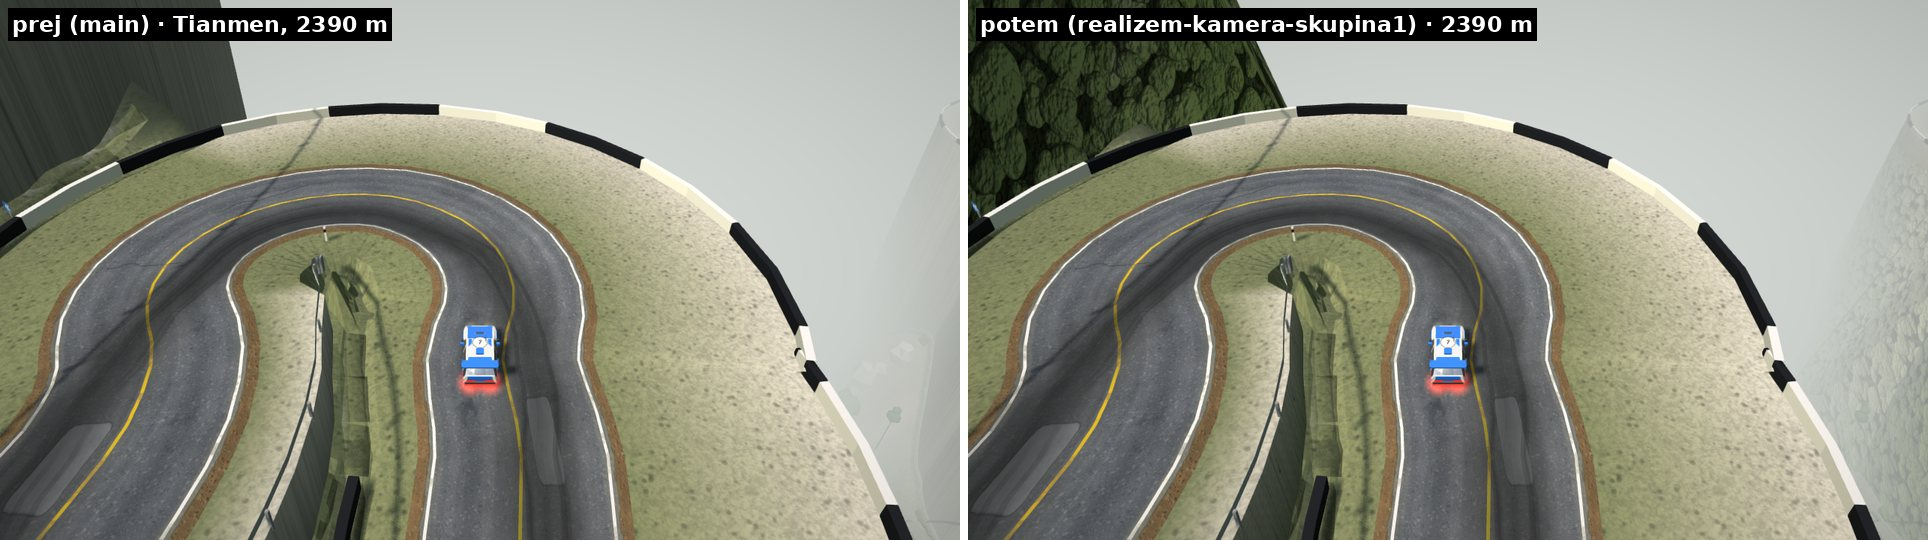
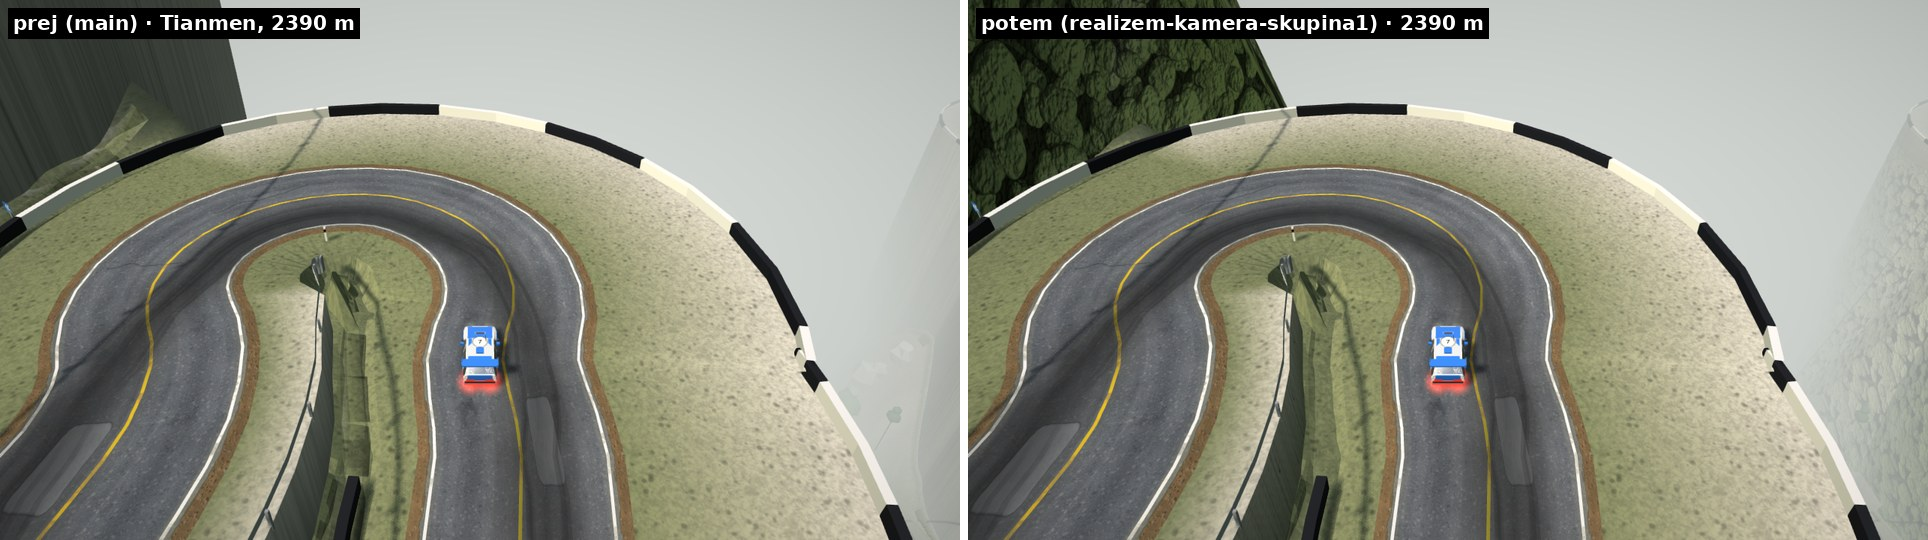
Realizem kamera, skupina 1: Tianmen, noga opornega zidu naravnost v teren (~2390 m)
Stolpec temnih stopničastih ploskev ob vznožju 4–8 m zidu zgornjega kraka so
bili trakovi mehkega senčenja stika (aoWorld): noga zidu je bila ravno na meji
njegovega dosega (0,2–0,5 m pod terenom), zato je trak dobil en vzorec, drugi
ne, vsak nagnjen po terenu, ki pada proti spodnjemu kraku. Noga zidu, ki gre
naravnost v teren, je zdaj vsaj 0,6 m pod njim: lice in teren se srečata v eni
črti. Odstranjen je tudi predpasnik starega lica na tleh ob vznožju (do 1,9 m),
ki je ležal 3 cm nad terenom. aoWorld, ograje in fizika so nespremenjeni.

Tianmen (NIZKA): 183 klicev risanja (največ 214), 495 tisoč oglišč (največ
631 tisoč; prej 501 in 638). Zlato sveta samo za Tianmen, perf.json kot na main.
Slike prej/potem: docs/realizem/kamera1-tianmen-2390m.jpg in -2390m-noga.jpg.

Claude-Session: https://claude.ai/code/session_01WbgGzsyw5vt7oAhCwxvDFq

diff --git a/js/world-realizem1.js b/js/world-realizem1.js
@@ -297,7 +297,10 @@
     const face = new Set(); let segs = 0;
     for (const side of [-1, 1]) { const W = isWall[side > 0 ? 1 : 0];
       for (let i = 0; i < N - 1; i++) { if (!W[i] && !W[i + 1]) continue; segs++;
-        for (const j of [i, i + 1]) for (const [o, y] of rows(j, side)) face.add(key(Pt(j, side * o, y))); } }
+        for (const j of [i, i + 1]) { for (const [o, y] of rows(j, side)) face.add(key(Pt(j, side * o, y)));
+          // (and the old face's apron on the ground at its foot, to 1.9 m out: under the new wall and slope it is buried, but before a wall straight
+          // down beside a leg below it lay 3 cm over the ground's own heights, in patches over and under the ground's coarser mesh)
+          if (W[j]) { const bar = barOf(j, side); for (const d of [1.15, 1.9]) face.add(key(Pt(j, side * (bar + d), gAt(j, side, bar + d) + 0.03))); } } } }
     if (!segs) return;
     // take the old faces out of the road's meshes: the triangles with all three corners on those rows
     let removed = 0, gMat = null;
@@ -390,7 +393,10 @@
     // the profiles (offset from the road's centre, height above it), 8 points: 0 the wall's top, 1 its foot, 2-4 the slope, 5 where it ends, 6-7 on:
     // under the ground; or the cut face's foot (land 1), and over a pit the level ground on to the leg below
     const prof = (i, side) => { const r = wall[side > 0 ? 1 : 0][i], bar = barOf(i, side), p = [[bar + 0.3, -0.04], [r.oW, r.yW]];
-      if (r.full) { for (let k = 0; k < 5; k++) p.push([r.oW, r.yW]); p.push([r.oW + 0.4, gAt(i, side, r.oW + 0.4) - 0.4]); return p; }
+      // (a wall straight down into the ground: its foot at least 0.6 m under it, so the face meets the ground in one clean line; nearer the surface
+      // the soft contact shading (aoWorld: a foot within 0.45 m of the ground) laid its strips at this foot on some samples and not on others, each
+      // tilted by the ground falling away to the leg below: a column of dark stepped slabs beside the wall, ~2390 m)
+      if (r.full) { const yF = Math.min(r.yW, gAt(i, side, r.oW) - 0.6); p[1][1] = yF; for (let k = 0; k < 5; k++) p.push([r.oW, yF]); p.push([r.oW + 0.4, Math.min(yF, gAt(i, side, r.oW + 0.4) - 0.4)]); return p; }
       const L = r.oM - r.oW, yE = r.land ? r.yL : gAt(i, side, r.oM) - 0.05;
       for (const f of [0.2, 0.6, 0.6]) {   // (3 and 4 the same point: three bands of slope, the first, at the wall's foot, narrow)
         const o = r.oW + L * f, q = side * o, b = (P.n4(T.px[i] + T.nx[i] * q, T.pz[i] + T.nz[i] * q) - 0.5) * Math.min(3, 0.6 * Math.min(1, L / 6) + 0.06 * Math.max(0, L - 6));

diff --git a/docs/realizem.md b/docs/realizem.md
@@ -246,7 +246,7 @@ V vrsti so pred novimi progami (vrstice v »Načrtovano«, `docs/vrsta.md`), E p
 | Načrt in odločitve | `docs/realizem-paketi`, #540 | potrjen 8. 11. 2026; ta dokument |
 | E0, prvi kos: obraba asfalta in črte | `realizem/e0-crte-asfalt` | končano 10. 11. 2026; uporabnikov »ok« na slikah (`docs/realizem/e0-*.jpg`) 10. 11. ob ~03.30, na `main` od 11. 11. 2026 s PR #622 (squash `244f7cd7`); jure.kopac26, odločitev uporabnika 10. 11. 2026 ob ~01.40 v pogovoru z Matejem, izbira »Cesta in predmeti E0«; opis v razdelku »E0, prvi kos« |
 | E0, drugi kos: rob ceste, oznake čez cesto, Pikes Peak | `realizem/e0-crte-asfalt` (isti PR #622, ločeni commiti) | končano 10. 11. 2026, uporabnikov »ok« na slikah (`docs/realizem/e0-rob.jpg`, `e0-oznake.jpg`, `e0-pikes.jpg`) 10. 11. ob ~12.30; na `main` od 11. 11. 2026 s PR #622 (squash `244f7cd7`); opis v razdelku »E0, drugi kos« |
-| Kamera za avtom, skupina 1 (Nürburg, Pikes Peak, Tianmen): Tianmen | `realizem-kamera-skupina1`, #798 | osnutek 19. 11. 2026: pod naloženimi kraki betonski oporni zid in brežina do terena namesto golih sten do 126 m, pri ~2200 m (padec 57–64 m) zid samo zgornjih 6 m, pod njim porasla kraška stena; mostova pri ~1090 in ~1690 m (OSM), Pikes Peak sneg in granit nad gozdno mejo (`js/world-realizem1.js`, slike `docs/realizem/kamera1-*.jpg`). Odprto: pri 1500 m ravne ploskve nasipa nad grapo, pri 2390 m prekrivanje ob vznožju 4–8 m opornega zidu zgornjega kraka (globoke reže ni); Nürburg brez spremembe (`nrH`, `js/world.js`). |
+| Kamera za avtom, skupina 1 (Nürburg, Pikes Peak, Tianmen): Tianmen | `realizem-kamera-skupina1`, #798 | osnutek 19. 11. 2026: pod naloženimi kraki betonski oporni zid in brežina do terena namesto golih sten do 126 m, pri ~2200 m (padec 57–64 m) zid samo zgornjih 6 m, pod njim porasla kraška stena; mostova pri ~1090 in ~1690 m (OSM), Pikes Peak sneg in granit nad gozdno mejo (`js/world-realizem1.js`, slike `docs/realizem/kamera1-*.jpg`); pri ~2390 m noga zidu, ki gre naravnost v teren, vsaj 0,6 m pod njim (prej stopničaste temne ploskve mehkega senčenja ob vznožju). Odprto: pri 1500 m ravne ploskve nasipa nad grapo; pri ~2420–2434 m (in drugje na zmernih nasipih, enako na `main`) zareza pod ograjo in greben za njo v osnovnem robu proge (`vProf`, `js/world-tianmen.js`); Nürburg brez spremembe (`nrH`, `js/world.js`). |
 | E0 (ostalo), E1–E4, S0–S2, G0–G4, P1–P6 | `realizem/<korak>` | čaka na tedenski načrt (pon. 9. 11.); E prvi, E1 najprej slike na strani Odločitve; P po #460, #480 in #516 |
 
 ## Viri
